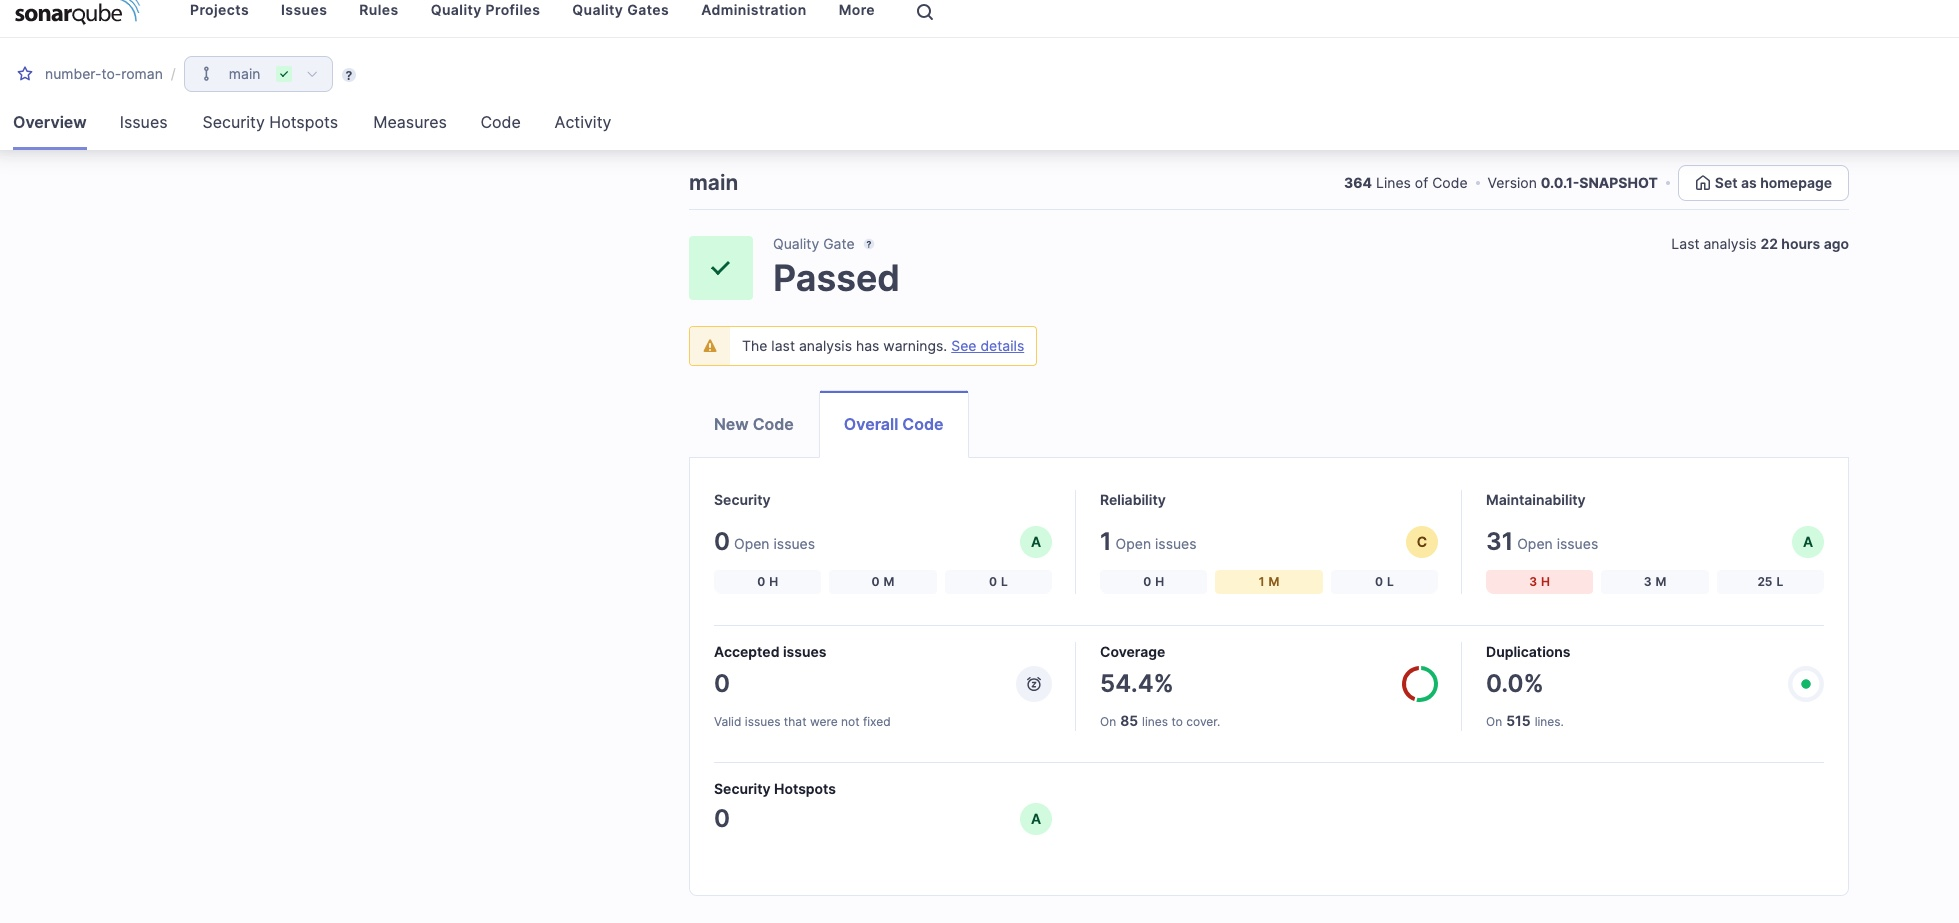
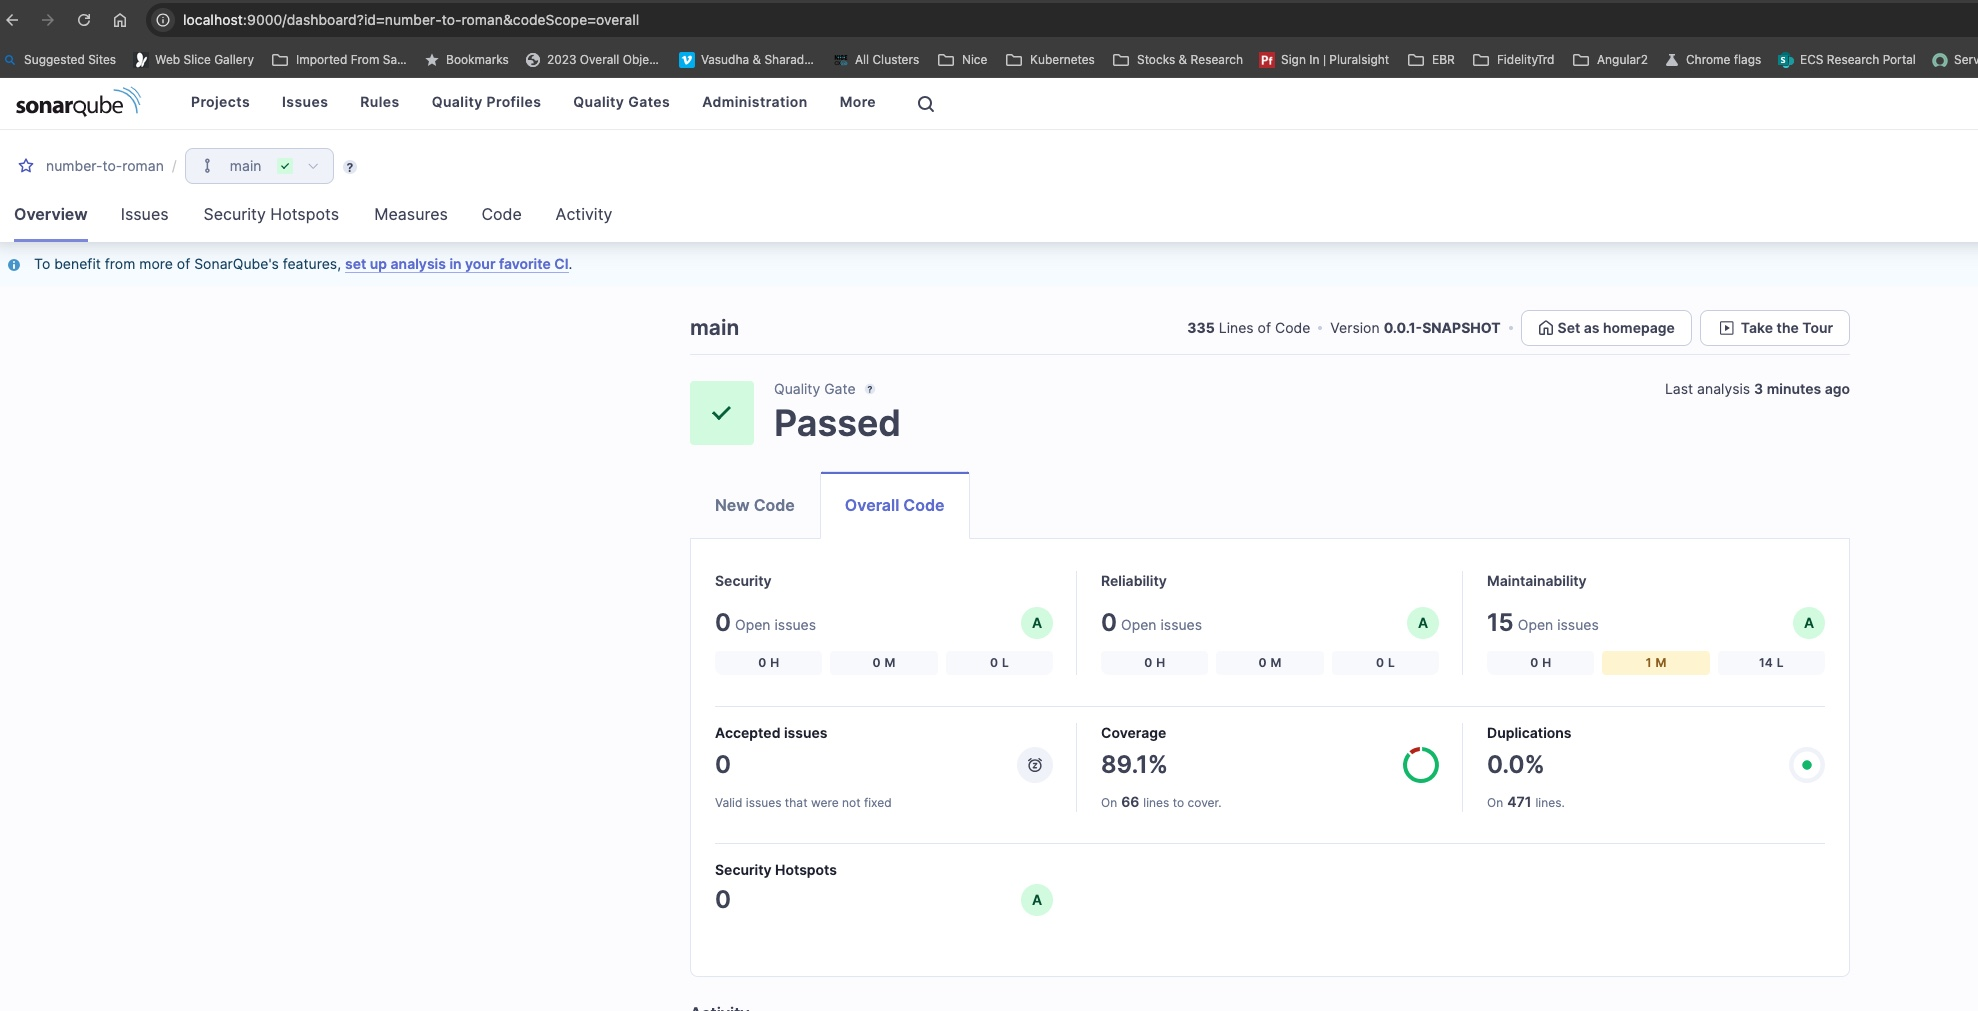
Fix logstash.conf and docker-compose.yml network

diff --git a/README.md b/README.md
@@ -12,6 +12,7 @@ This project demonstrates a Spring Boot application that converts numbers to Rom
 4. [Credentials](#4-credentials)
 5. [All Service Endpoint Details](#5-all-service-endpoint-details)
 6. [Run Test](#6-run-test)
+7. [Logging & Monitoring - ELK Stack]
 7. [Shutdown Service & Clean Up](#7-shutdown-service--clean-up-docker)
 8. [References](#8-references)
 
@@ -99,12 +100,36 @@ user: admin<br/> password: admin
     - This test runs the end to end integration test and pass actual values to the service.
       -[NumberToRomanIntegrationTest.java](src/integration-test/java/com/adobe/convertor/integration/NumberToRomanIntegrationTest.java)
 3. **Sonar Code Coverage**
+   1. **Steps to follow to run code coverage**
+      1. Login into this http://localhost:9000/ (admin/admin)
+      2. Go to http://localhost:9000/account/security
+      3. Generate Sonar Qube Token as follow
+      ![gnerate-newtoken](screenshots/generate-newtoken.jpeg)
+      4. Copy the generated token and save it under [.env](docker/.env) ,  also make sure to update the new password for SONAR_PASSWORD
+       ```bash
+         SONAR_TOKEN=<token>
+         SONAR_USER=admin
+         SONAR_PASSWORD=Sonar@123
+      ```
+        ![copy-token.jpeg](screenshots/copy-token.jpeg)
+      
     ```bash
-    docker exec -it docker docker_app_1 /bin/bash
-    mvn clean verify sonar:sonar -Dsonar.projectKey='number-to-roman'   -Dsonar.projectName='number-to-roman' -Dsonar.host.url=http://localhost:9000 -Dsonar.token=sqp_5f01fe9dcfb9280aec10e6f71ea9122b1589c6b0
+    http://localhost:9000/dashboard?id=number-to-roman&codeScope=overall
+    
     ```
     Code Coverage Report
     ![sonq-qube.jpeg](screenshots/sonar-qube.jpeg)
+## 7 . **Logging & Monitoring - ELK Stack**
+#### **Kibana Dashboard** 
+1. Login into Kibana http://localhost:5601/ 
+2. Navigate to this path: http://localhost:5601/app/management/kibana/indexPatterns
+3. Click on ***Create index pattern***
+![create-index.jpeg](screenshots/create-index.jpeg)
+4. Enter the name as `logstash-*` and select Timestamp field as '@timestamp' , click on Create Index pattern.
+    Follow the sequence in the screenshot
+   ![create-index-logstash.jpeg](screenshots/create-index-logstash.jpeg) 
+5. Navigate to this url : http://localhost:5601/app/discover
+6. Kibana Dashboard View
 
 ## 7. **Shutdown Service & Clean up Docker**
 ```bash
